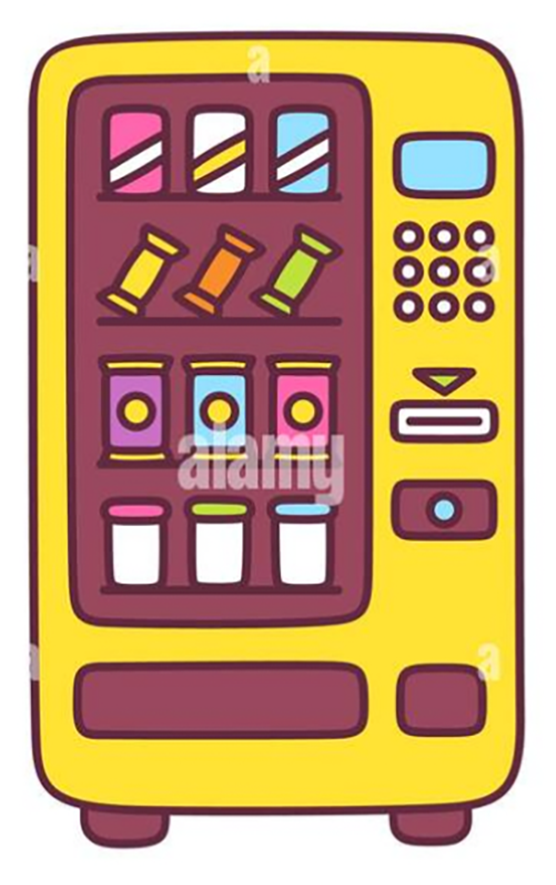
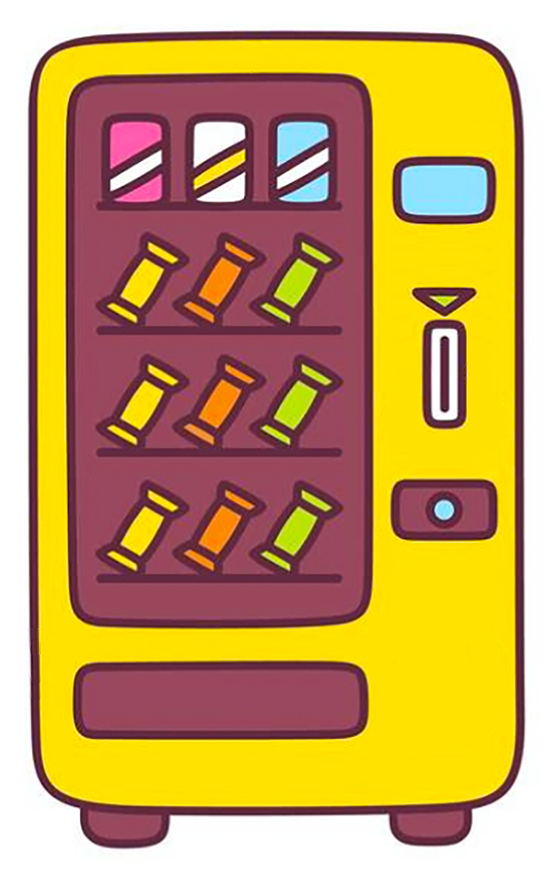
vending machine styling finalized

diff --git a/public/css/styles.css b/public/css/styles.css
@@ -6,70 +6,137 @@
 }
 
 * > * {
-  /* margin-top: 1.5rem; */
+  margin-top: 0.5rem;
+}
+
+body {
+  margin-top: 3rem;
 }
 
 .sub-title {
-  text-align: center;
+  margin-left: 5rem;
 }
 
 .title {
-  text-align: center;
+  margin-left: 5rem;
 }
 
 .vending-machine-container {
   position: relative;
+  margin-top: -1rem;
   margin-left: 3rem;
-  margin-right: 7rem;
-  border: 1px solid blue;
-  width: 60%;
+  margin-right: 8rem;
+  /* border: 1px solid blue; */
+  width: 450px;
   /* max-width: 475px; */
 }
 
 img {
-  border: pink 1px solid;
+  /* border: pink 1px solid; */
   width: 100%;
   z-index: -1;
 }
 
 .items {
-  border: 1px solid red;
-  top: 10%;
-  right: 40%;
-  width: 150px;
+  display: flex;
+  justify-content: space-between;
+  /* border: 1px solid red; */
+  top: 17%;
+  right: 36%;
+  width: 220px;
   position: absolute;
   margin: 0 auto;
+}
+.items div {
+  display: inline;
+  margin-top: 0;
+  padding: 0.1rem;
+  background-color: rgba(255, 255, 255, 0.6);
+  /* border: 1px solid green; */
 }
 
 .inventory-display {
   position: absolute;
-  top: 30%;
-  right: 40%;
+  top: 28%;
+  right: 38%;
   width: 150px;
+  height: 200px;
   padding: 1rem;
-
-  border: 1px solid blue;
-  background: white;
+  text-align: center;
+  /* border: 1px solid blue; */
+  background: rgba(255, 255, 255, 0.6);
 }
 
 .coin-display {
   position: absolute;
-  top: 17%;
-  right: 15.5%;
-  border: 1px solid orange;
+  top: 19%;
+  right: 14%;
+  /* border: 1px solid orange; */
+}
+
+.deposit-coins-notification {
+  position: absolute;
+  top: 35%;
+  left: 110%;
+  padding: 1rem;
+  color: white;
+  width: 225px;
+  height: 36px;
+  text-align: center;
+  background-color: palevioletred;
+  /* border: 1px solid green; */
+}
+
+.deposit-coins-notification:before {
+  content: "";
+  position: absolute;
+  width: 0;
+  height: 0;
+  border-top: 42px solid transparent;
+  border-right: 42px solid palevioletred;
+  border-bottom: 42px solid transparent;
+  margin: -24px 0 0 -78px;
+}
+
+.return-coins-notification {
+  position: absolute;
+  top: 50.5%;
+  left: 110%;
+  padding: 1rem;
+  color: white;
+  width: 225px;
+  height: 36px;
+  text-align: center;
+  background-color: cornflowerblue;
+  /* border: 1px solid green; */
+}
+
+.return-coins-notification:before {
+  content: "";
+  position: absolute;
+  width: 0;
+  height: 0;
+  border-top: 42px solid transparent;
+  border-right: 42px solid cornflowerblue;
+  border-bottom: 42px solid transparent;
+  margin: -24px 0 0 -86px;
 }
 
 .coin-slot {
   position: absolute;
-  top: 45%;
-  right: 10%;
-  border: 1px solid green;
+  top: 35%;
+  right: 16%;
+  width: 35px;
+  height: 89px;
+  /* border: 1px solid green; */
 }
 
 .coin-return {
   position: absolute;
   position: absolute;
-  top: 55%;
-  right: 10%;
-  border: 1px solid purple;
+  top: 52.8%;
+  right: 10.5%;
+  width: 85px;
+  height: 49px;
+  /* border: 1px solid purple; */
 }

diff --git a/public/home.html b/public/home.html
@@ -13,10 +13,12 @@
     <div class="vending-machine-container">
       <img src="./images/vendingMachine.png" />
       <div class="items"></div>
-      <div class="inventory-display"></div>
+      <div class="inventory-display">Messages...</div>
       <div class="coin-display"></div>
-      <div class="coin-slot">Deposit Coin</div>
-      <div class="coin-return">Coin Return</div>
+      <h3 class="deposit-coins-notification">Deposit coins</h2>
+      <div class="coin-slot"></div>
+      <h3 class="return-coins-notification">Return coins</h2>
+      <div class="coin-return"></div>
     </div>
     <script type="module" src="./js/scripts.js"></script>
   </body>

diff --git a/public/js/scripts.js b/public/js/scripts.js
@@ -7,7 +7,7 @@ let moneyDeposited = false;
 
 //!move to modules folder?
 const renderDrinks = (data) => {
-  const vendingMachineContainer = document.querySelector(".items");
+  const items = document.querySelector(".items");
   data.forEach((item) => {
     const drink = document.createElement("div");
     drink.textContent = `${item.drink_name}`;
@@ -20,7 +20,7 @@ const renderDrinks = (data) => {
         getInventory(item.drink_name);
       }
     };
-    vendingMachineContainer.appendChild(drink);
+    items.appendChild(drink);
   });
 };
 
